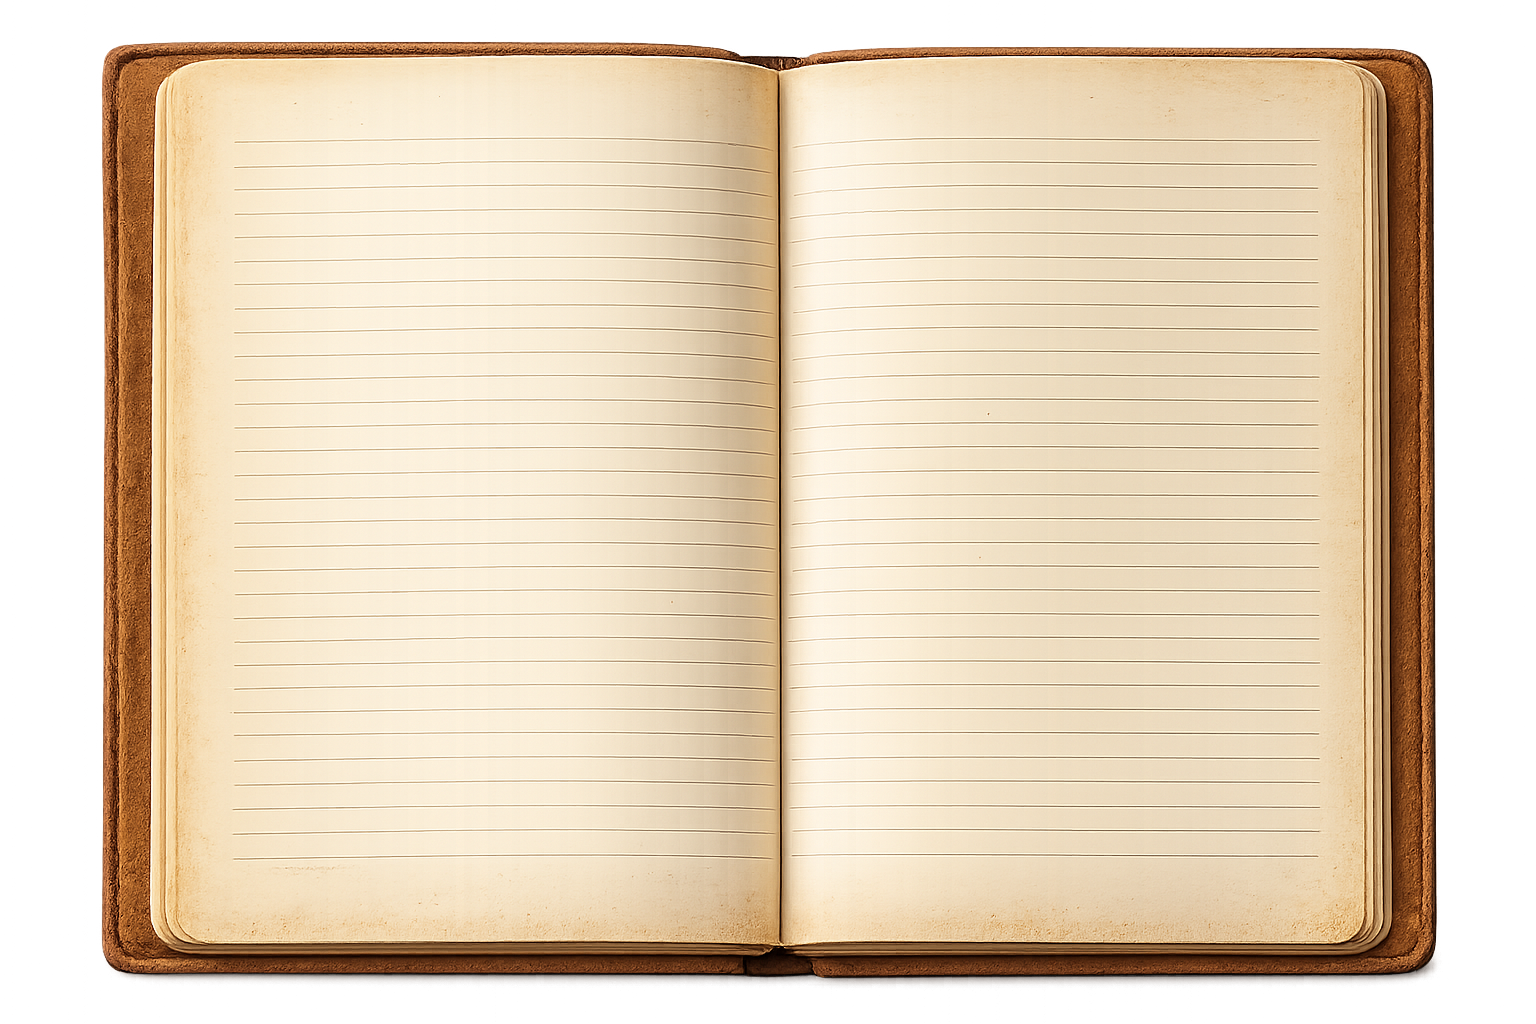
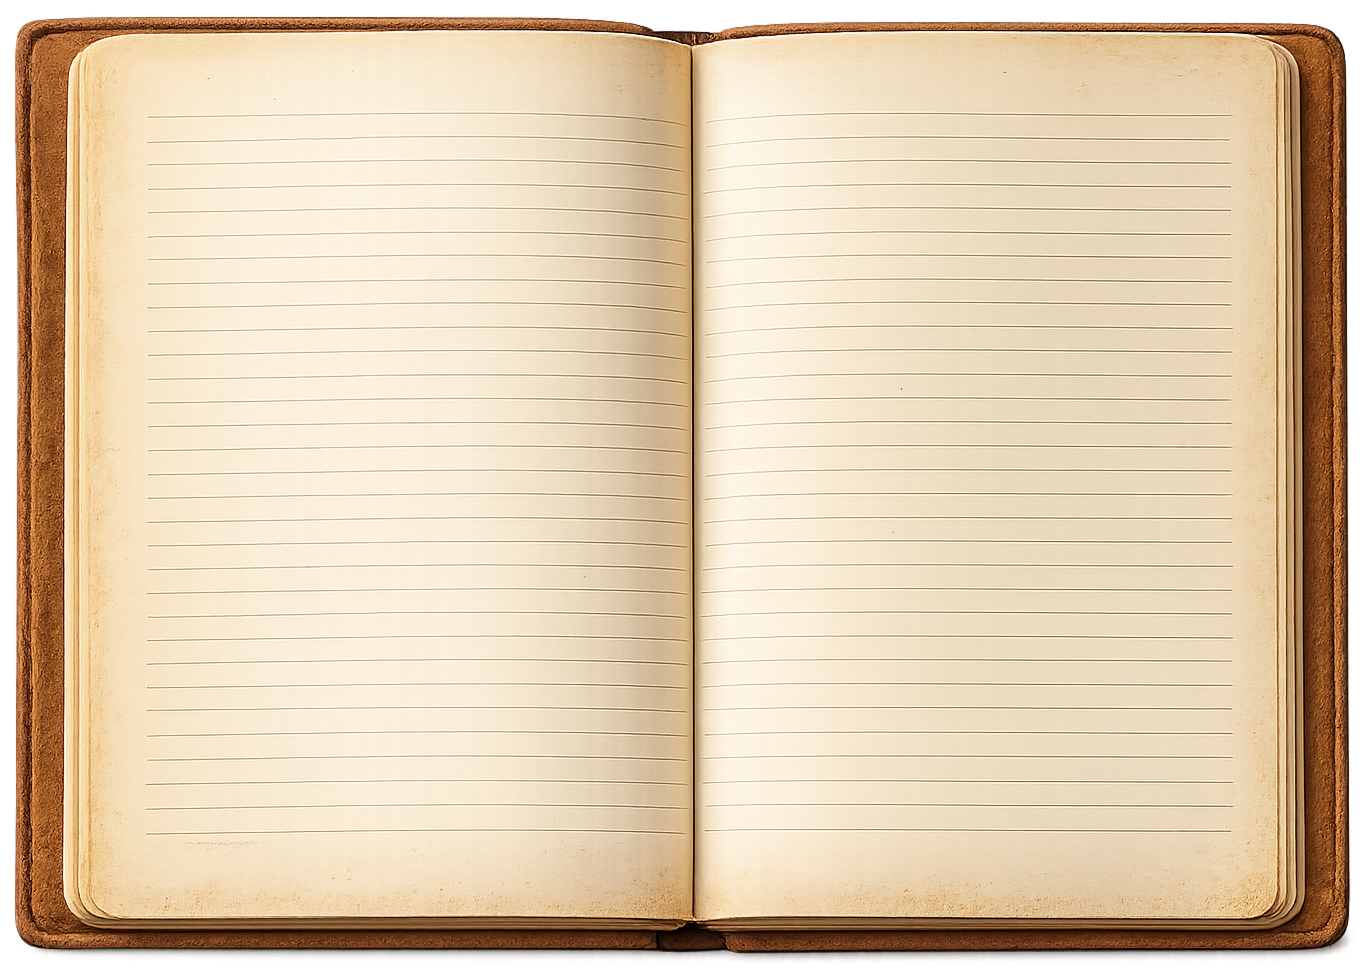
Update book assets and refactor home page layout with new pegboard component
Replit-Commit-Author: Agent

diff --git a/client/src/pages/home.tsx b/client/src/pages/home.tsx
@@ -5453,44 +5453,49 @@ export default function Home() {
                 <div className="flex-1 h-px bg-[#E2E8F0] dark:bg-[#1E293B]" />
               </div>
 
-              {/* Pegboard — book full width with draggable photos */}
-              <AboutMePegboard />
+              {/* Two-column: half-book pegboard left, bio text right */}
+              <div className="flex flex-col md:flex-row items-center gap-10 md:gap-16">
+                {/* Left — half-book pegboard */}
+                <div className="w-full md:w-[45%] flex-shrink-0">
+                  <AboutMePegboard />
+                </div>
 
-              {/* Bio text below the board */}
-              <div className="max-w-2xl">
-                <h2
-                  className="text-[#0F172A] dark:text-[#F8FAFC] mb-6"
-                  style={{
-                    fontFamily: "'Poppins', sans-serif",
-                    fontSize: "clamp(26px, 3.5vw, 44px)",
-                    fontWeight: 600,
-                    lineHeight: 1.1,
-                    letterSpacing: "-0.025em",
-                  }}
-                >
-                  a little about myself
-                </h2>
+                {/* Right — bio text */}
+                <div className="flex-1 min-w-0">
+                  <h2
+                    className="text-[#0F172A] dark:text-[#F8FAFC] mb-6"
+                    style={{
+                      fontFamily: "'Poppins', sans-serif",
+                      fontSize: "clamp(26px, 3.5vw, 44px)",
+                      fontWeight: 600,
+                      lineHeight: 1.1,
+                      letterSpacing: "-0.025em",
+                    }}
+                  >
+                    a little about myself
+                  </h2>
 
-                <p
-                  className="text-[#475569] dark:text-[#94A3B8] mb-4"
-                  style={{ fontFamily: "'Inter', sans-serif", fontSize: 15, lineHeight: 1.75 }}
-                >
-                  Design, for me, has always been about people — understanding how they think, what they need, and building things that feel effortless in their hands. I grew up tinkering with interfaces long before I knew what product design was, driven purely by the curiosity of why some things just feel right.
-                </p>
+                  <p
+                    className="text-[#475569] dark:text-[#94A3B8] mb-4"
+                    style={{ fontFamily: "'Inter', sans-serif", fontSize: 15, lineHeight: 1.75 }}
+                  >
+                    Design, for me, has always been about people — understanding how they think, what they need, and building things that feel effortless in their hands. I grew up tinkering with interfaces long before I knew what product design was, driven purely by the curiosity of why some things just feel right.
+                  </p>
 
-                <p
-                  className="text-[#475569] dark:text-[#94A3B8] mb-8"
-                  style={{ fontFamily: "'Inter', sans-serif", fontSize: 15, lineHeight: 1.75 }}
-                >
-                  These days I work across the full spectrum — from early-stage discovery and research to pixel-perfect delivery — and I care deeply about the space where clarity meets craft. When I'm not designing, I'm usually sketching ideas on paper, obsessing over typography, or hunting for the perfect cup of coffee.
-                </p>
+                  <p
+                    className="text-[#475569] dark:text-[#94A3B8] mb-8"
+                    style={{ fontFamily: "'Inter', sans-serif", fontSize: 15, lineHeight: 1.75 }}
+                  >
+                    These days I work across the full spectrum — from early-stage discovery and research to pixel-perfect delivery — and I care deeply about the space where clarity meets craft. When I'm not designing, I'm usually sketching ideas on paper, obsessing over typography, or hunting for the perfect cup of coffee.
+                  </p>
 
-                <span
-                  className="text-[#439BEA]"
-                  style={{ fontFamily: "'Caveat', cursive", fontSize: 32, fontWeight: 600, letterSpacing: "0.01em" }}
-                >
-                  Matt.
-                </span>
+                  <span
+                    className="text-[#439BEA]"
+                    style={{ fontFamily: "'Caveat', cursive", fontSize: 32, fontWeight: 600, letterSpacing: "0.01em" }}
+                  >
+                    Matt.
+                  </span>
+                </div>
               </div>
             </div>
 

diff --git a/client/src/components/about-me-pegboard.tsx b/client/src/components/about-me-pegboard.tsx
@@ -47,9 +47,9 @@ export function AboutMePegboard() {
         userSelect: "none",
       }}
     >
-      {/* Book / pegboard background */}
+      {/* Half-book / pegboard background */}
       <img
-        src="/book.png"
+        src="/halfbook.png"
         alt=""
         aria-hidden="true"
         draggable={false}